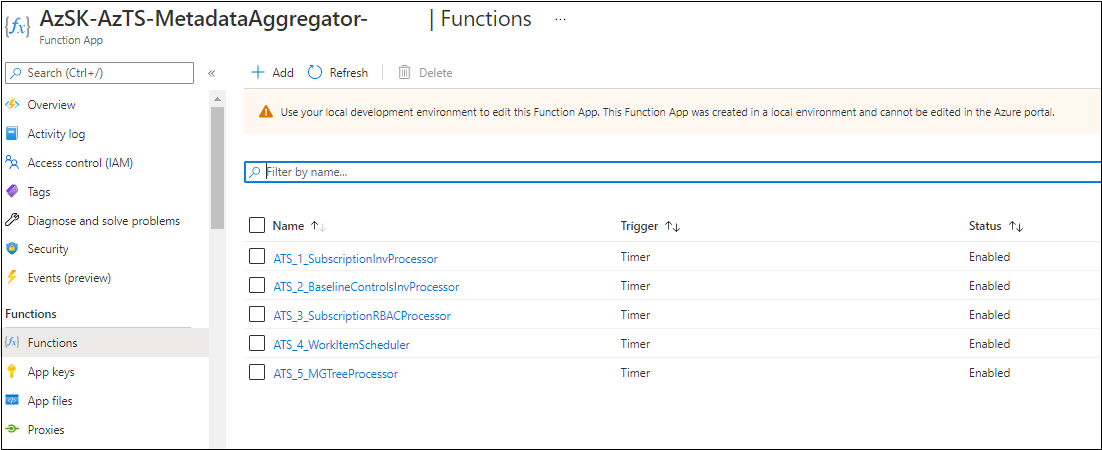
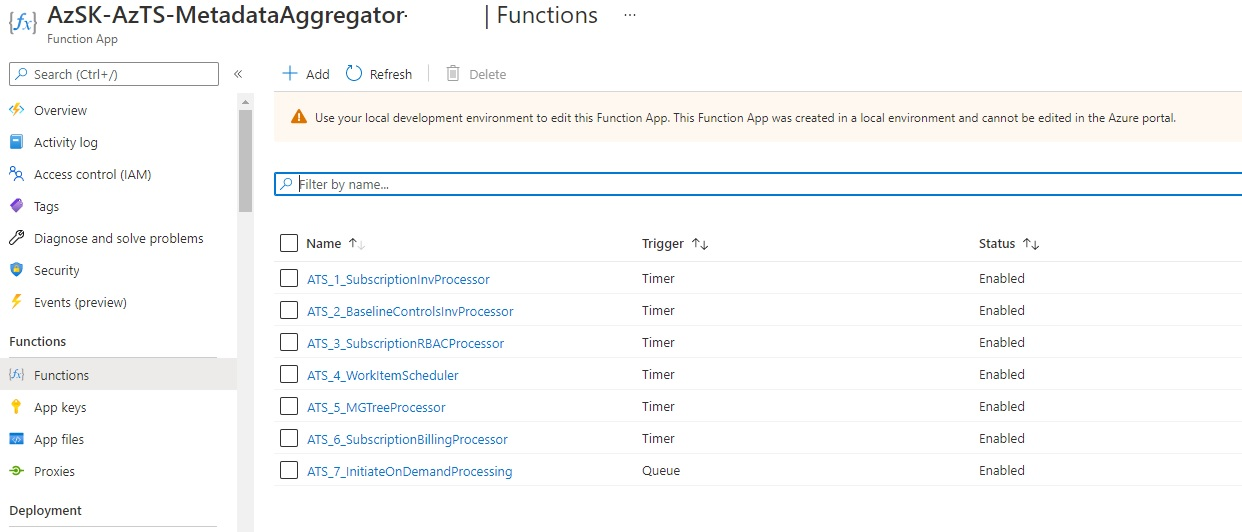
vnet integration documentation update

diff --git a/01-Setup and getting started/README.md b/01-Setup and getting started/README.md
@@ -65,14 +65,15 @@ For more details of Az Modules refer [link](https://docs.microsoft.com/en-us/pow
 ``` PowerShell
 # Install required Az modules
 # Required versions: 
-#   Az.Accounts >= 1.7.1
+#   Az.Accounts >= 2.5.1
 #   Az.Resources >= 1.10.0
-#   Az.Storage >= 1.12.0
+#   Az.Storage >= 2.0.0
 #   Az.ManagedServiceIdentity >= 0.7.3
 #   Az.Monitor >= 1.5.0
 #   Az.OperationalInsights >= 1.3.4
 #   Az.ApplicationInsights >= 1.0.3
 #   Az.Websites >= 1.6.0
+#   Az.Network  >= 2.5.0
 Install-Module -Name Az.Accounts -AllowClobber -Scope CurrentUser -repository PSGallery
 Install-Module -Name Az.Resources -AllowClobber -Scope CurrentUser -repository PSGallery
 Install-Module -Name Az.Storage -AllowClobber -Scope CurrentUser -repository PSGallery
@@ -81,6 +82,7 @@ Install-Module -Name Az.Monitor -AllowClobber -Scope CurrentUser -repository PSG
 Install-Module -Name Az.OperationalInsights -AllowClobber -Scope CurrentUser -repository PSGallery
 Install-Module -Name Az.ApplicationInsights -AllowClobber -Scope CurrentUser -repository PSGallery
 Install-Module -Name Az.Websites -AllowClobber -Scope CurrentUser -repository PSGallery
+Install-Module -Name Az.Network -AllowClobber -Scope CurrentUser -repository PSGallery
 
 # Install AzureAd 
 # Required version:
@@ -270,6 +272,7 @@ Setup will create infra resources and schedule daily security control scan on ta
 > **Note:**
 > 1. _Setup may take up to 5 minutes to complete._
 > 2. _For better performance, we recommend using one location for hosting central scanning user-assigned MI and resources which will be created in the following installation steps using the `Install-AzSKTenantSecuritySolution` cmdlet._
+> 3. _To install AzTS setup with VNet integration, uncomment switch `-EnableVnetIntegration` and then run the installation command `Install-AzSKTenantSecuritySolution`._ To know more about VNet Integration refer to this [FAQ](README.md#Why-should-I-integrate-my-AzTS-solution-setup-with-VNet?).
 >
 > &nbsp;
 
@@ -298,6 +301,7 @@ $DeploymentResult = Install-AzSKTenantSecuritySolution `
                 -SendAlertNotificationToEmailIds @('<EmailId1>', '<EmailId2>', '<EmailId3>') `
                 -EnableAutoUpdater `
                 -EnableAzTSUI `
+                #-EnableVnetIntegration `
                 -Verbose
 
   
@@ -370,6 +374,7 @@ For '-WebAPIAzureADAppId' and '-UIAzureADAppId' parameter,
 |SendUsageTelemetry| Permit application to send usage telemetry to Microsoft server. Usage telemetry captures anonymous usage data and sends it to Microsoft servers. This will help in improving the product quality and prioritize meaningfully on the highly used features. The default value is false.|FALSE|
 |EnableAutoUpdater | Switch to enable AzTS auto updater. Autoupdater helps to get latest feature released for AzTS components covering updates for security controls. If this is disabled, you can manually update AzTS components by re-running setup command.|FALSE|
 |EnableAzTSUI | Switch to enable AzTS UI. AzTS UI is created to see compliance status for subscription owners and perform adhoc scan. |FALSE|
+|EnableVnetIntegration | Switch to enable vnet integration for AzTS setup. Enabling VNet integration for AzTS setup, ensures that all critical resources like storage, function apps, log analytics workspace etc that are part of AzTS setup, are not accessible over public internet. |FALSE|
 |Verbose| Switch used to output detailed log |FALSE|
 
 </br>
@@ -445,6 +450,10 @@ The following section will walk you through the steps to trigger AzTS scan manua
 
 Run the `Start-AzSKTenantSecuritySolutionOnDemandScan` command to start scan after the installation of AzTS Soln. Please note that after running this command, AzTS UI will available in the next 2 hours depending on the number of subscriptions to be scanned.
 
+> **Note:** 
+> _If your AzTS solution is integrated to VNet, in that case uncomment switch `-EnableVnetIntegration` and then run `Start-AzSKTenantSecuritySolutionOnDemandScan` command to trigger AzTS scan._
+
+
 ```PowerShell
 # Subscription id in which Azure Tenant Security Solution has been installed.
 $HostSubscriptionId = "<HostSubscriptionId>"
@@ -453,7 +462,8 @@ $HostSubscriptionId = "<HostSubscriptionId>"
 $HostResourceGroupName = "<HostResourceGroupName>"
 
 Start-AzSKTenantSecuritySolutionOnDemandScan -SubscriptionId $HostSubscriptionId `
-                                             -ScanHostRGName $HostResourceGroupName
+                                             -ScanHostRGName $HostResourceGroupName `
+                                             #-EnableVnetIntegration
 
 ```
 
@@ -472,6 +482,12 @@ The below steps will help you to verify and understand different resources and f
   ![Resources](../Images/12_TSS_Resource_Group_1.png)	
   ![Resources](../Images/12_TSS_Resource_Group_2.png)	
 
+  > **Note:** _If the AzTS Solution is integrated to VNet, verify that below additional resources also got created, along with the once shown above._
+
+  ![Resources](../Images/12_TSS_Resource_Group_3.png)	
+  ![Resources](../Images/12_TSS_Resource_Group_4.png)
+  ![Resources](../Images/12_TSS_Resource_Group_4.png)	  
+
 **Resources details:**
 
 |Resource Name|Resource Type|Description|
@@ -489,6 +505,14 @@ The below steps will help you to verify and understand different resources and f
 |AzSK-AzTS-AutoUpdater-LogicApp-xxxxx| Logic App| Logic App required to upgrade the auto-updater service |
 |azsktsstoragexxxxx|Storage Account| Used to store the daily results of subscriptions scan|
 |AzSK-AzTS-AppInsights |App Insight| Used to collect telemetry logs from functions |
+|AzSK-AzTS-Vnet-xxxxx|Virtual Network| Virtual Network to enable secure communication of Azure resources with each other, it also ensures that all inbound communication to the resources gets routed through virtual network |
+|AzSK-AzTS-private-link-scope-xxxxx|Azure Monitor Private Link Scope| Used to connect private endpoints to Azure Monitor resources - Log Analytics workspaces and Application Insights, thereby ensuring that monitoring data is only accessed through authorized private networks |
+|AzSK-AzTS-private-link-scope-xxxxx-private-endpoint |Private Endpoint| Enables secure connectivity between the consumers from the same VNet, it is used to connect Azure Monitor Private Link Scope to the VNet|
+|privatelink-ods-opinsights-azure-com|Private DNS Zone| This zone covers workspace-specific mapping to ODS endpoints - the ingestion endpoint of Log Analytics|
+|privatelink-oms-opinsights-azure-com|Private DNS Zone| This zone covers workspace-specific mapping to OMS endpoints|
+|privatelink-monitor-azure-com|Private DNS Zone| This zone covers the global endpoints used by Azure Monitor|
+|privatelink-agentsvc-azure-automation-net|Private DNS Zone| This zone covers workspace-specific mapping to the agent service automation endpoints|
+|privatelink-agentsvc-azure-automation-net|Private DNS Zone| This zone configures connectivity to the global agents' solution packs storage account|
 
 <br/>
 
@@ -516,6 +540,7 @@ The below steps will help you to verify and understand different resources and f
 |ATS_3_SubscriptionRBACProcessor| Collects RBAC details of subscription to be scanned. RBAC collected is used to scan the control like "Azure_Subscription_AuthZ_Dont_Use_NonAD_Identities" 
 |ATS_4_WorkItemScheduler|  Responsible to queue up subscriptions as workitems for scanning. It also reconciles the errored subscriptions through retries in the end. By default, it would retry to scan 5 times for each error subscription. If there is nothing to process for the day, it would simply ignore the run.
 |ATS_5_MGTreeProcessor| Responsible to fetch details about all the management group that has been granted access as Reader using central MI. All these management groups will be fetched by the job and persisted into LA. This function is disabled by default. To enable this function, you need to add/update ` FeatureManagement__ManagementGroups : true ` and `ManagementGroupConfigurations__ManagementGroupId : <Root_Management_Group_id> ` application setting on Azure Portal. To update settings, go to your App Service --> Configuration --> New application settings --> Save after adding/updating the setting.
+|ATS_7_InitiateOnDemandProcessing| Reads message from the AzTS storage queue and trigger functions (ATS_1_SubscriptionInvProcessor, ATS_2_BaselineControlsInvProcessor, ATS_3_SubscriptionRBACProcessor, ATS_4_WorkItemScheduler) of MetadataAggregator, if the AzTS solution is integrated to `VNet`.
 
  **2.b. WorkItemProcessor Functions:** 
  
@@ -539,6 +564,8 @@ Similarly, you can trigger below functions with 10 mins interval.
  * ATS_4_WorkItemScheduler 
 
 After ATS_4_WorkItemScheduler completes pushing the messages in the queue, WorkItemProcessor will get auto trigged, start processing scan and push scan results in Storage Account and LA workspace. 
+
+> **Note:** If AzTS solution is integrated to VNet, you cannot run the functions manually. To trigger all the required functions run [On-Demand scan](README.md#2-manually-trigger-azts-on-demand-scan-for-entire-tenant) command after uncommenting switch `-EnableVnetIntegration`.
 
  **2.c. AutoUpdater Functions:** 
  
@@ -770,3 +797,11 @@ In this case, we recommend you to upgrade the Function app hosting plan (pricing
 4. To increase function timeout, go to your function app (say, you want to increase timeout value for 'AzSK-AzTS-WorkItemProcessor-xxxxx'. This app contains function to scan subscription with baseline control.) > Settings > Configuration > Application settings > Update the value of `AzureFunctionsJobHost__functionTimeout` to '01:00:00' to increase the timeout value to 1 hour.
 
   > _**Note:** In future if you run the AzTS installation command (`Install-AzSKTenantSecuritySolution`) to upgrade your existing AzTS setup, you will have to repeat the above steps._
+
+  #### **Why should I integrate my AzTS solution setup with VNet?**
+
+1. Integrating AzTS solution with Vnet, ensures that all critical backend resources like - storage account, log analytics workspace, function apps etc. are not accessible over public network.
+
+2. It ensures that all inbound communication to backend resources are routed through private network (Vnet).
+
+3. Ensures that all resources in a VNet can communicate securely with each other and keeps all the traffic inside the Microsoft Azure backbone network.

diff --git a/02-Monitoring security using AzTS/README.md b/02-Monitoring security using AzTS/README.md
@@ -33,7 +33,9 @@ When you setup your Tenant Security endpoint (i.e. policy server), one of the th
 ## Create cloud security compliance report for your org using PowerBI
 We will look at how a PowerBI-based compliance dashboard can be created and deployed in a matter of minutes starting with a template dashboard that ships with the Tenant Security Solution (AzTS). All you need apart from the Log Analytics workspace instance is a CSV file that provides a mapping of your organization hierarchy to subscription ids (so that we know which team/service group owns each subscription).
 
-> Note: This is a one-time activity with tremendous leverage as you can use the resulting dashboard (example below) towards driving security governance activities over an extended period at your organization. 
+> **Note**: This is a one-time activity with tremendous leverage as you can use the resulting dashboard (example below) towards driving security governance activities over an extended period at your organization.
+>
+>**As of now this feature is not supported with AzTS solution integrated to VNet.** 
 
 #### **Step 0: Pre-requisites**
 To create, edit and publish your compliance dashboard, you will need to install the latest version of PowerBI desktop on your local machine. Download it from [here](https://powerbi.microsoft.com/en-us/desktop/).
